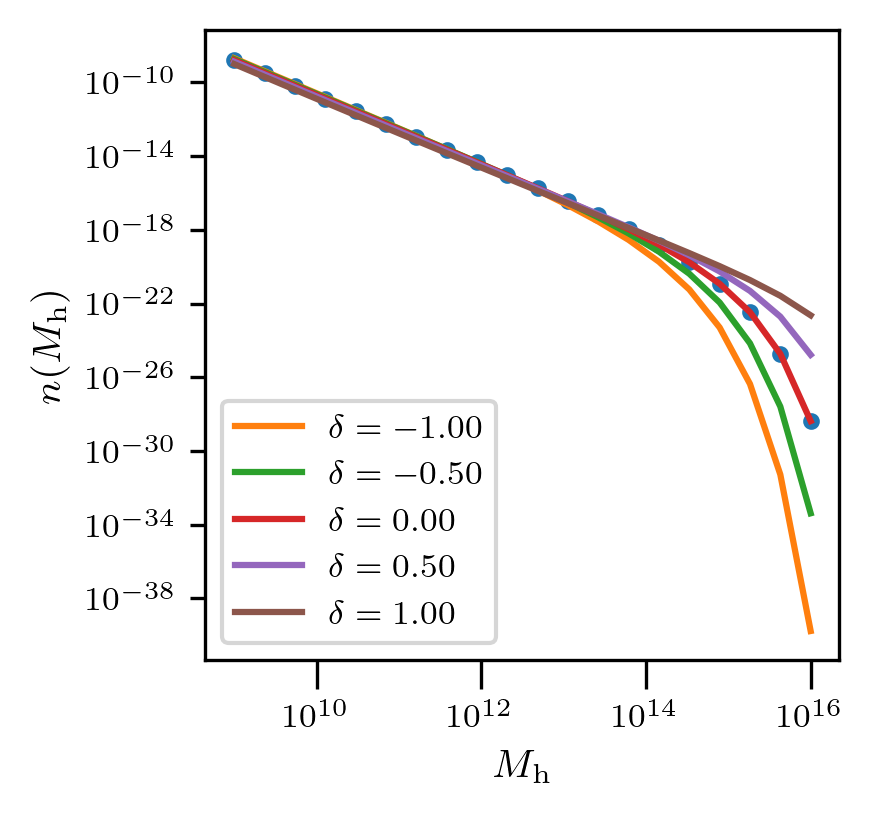
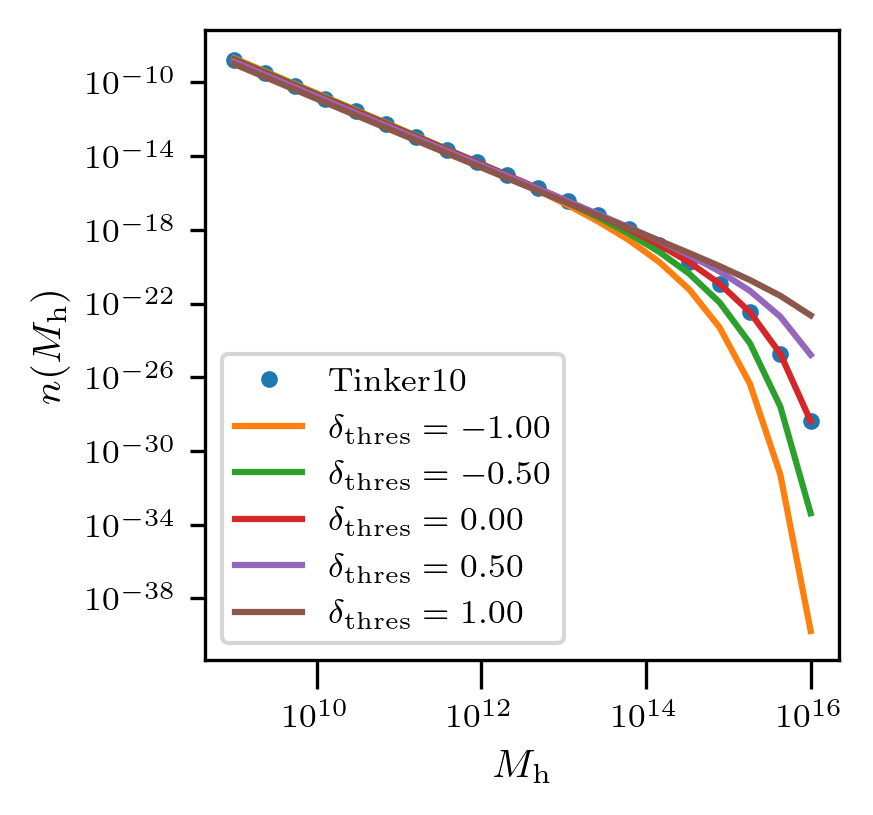
updated

Changed region(s): [[0.2474, 0.4294, 0.6495, 0.7975]]

diff --git a/comp_nofm_dens_dep.py b/comp_nofm_dens_dep.py
@@ -13,14 +13,14 @@ for mm in xx:
     yy = np.append(yy,a.nofm(mm,0.0))
 
 plt.subplot(2,2,1)
-plt.plot(xx, yy, '.')
+plt.plot(xx, yy, '.', label='Tinker10')
 
 delta_thres = np.linspace(-1,1,5)
 for ff in delta_thres:
     yy = np.array([])
     for mm in xx:
         yy = np.append(yy,a.MF_TI10_dens_dep(mm,0.0,ff))
-    plt.plot(xx, yy, label=r'$\delta_{thres} = %2.2f$'%ff)
+    plt.plot(xx, yy, label=r'$\delta_{\rm thres} = %2.2f$'%ff)
 
 plt.xlabel(r'$M_{\rm h}$')
 plt.ylabel(r'$n(M_{\rm h})$')
